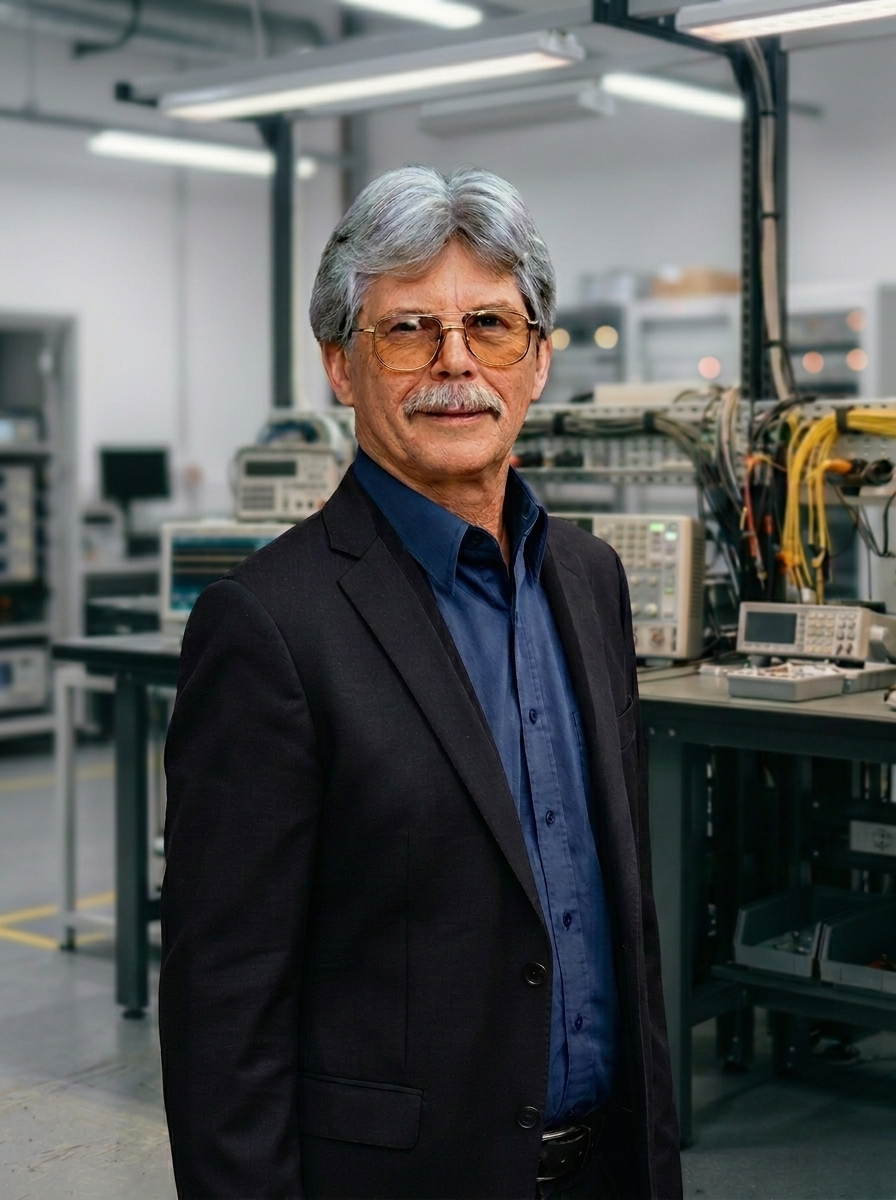
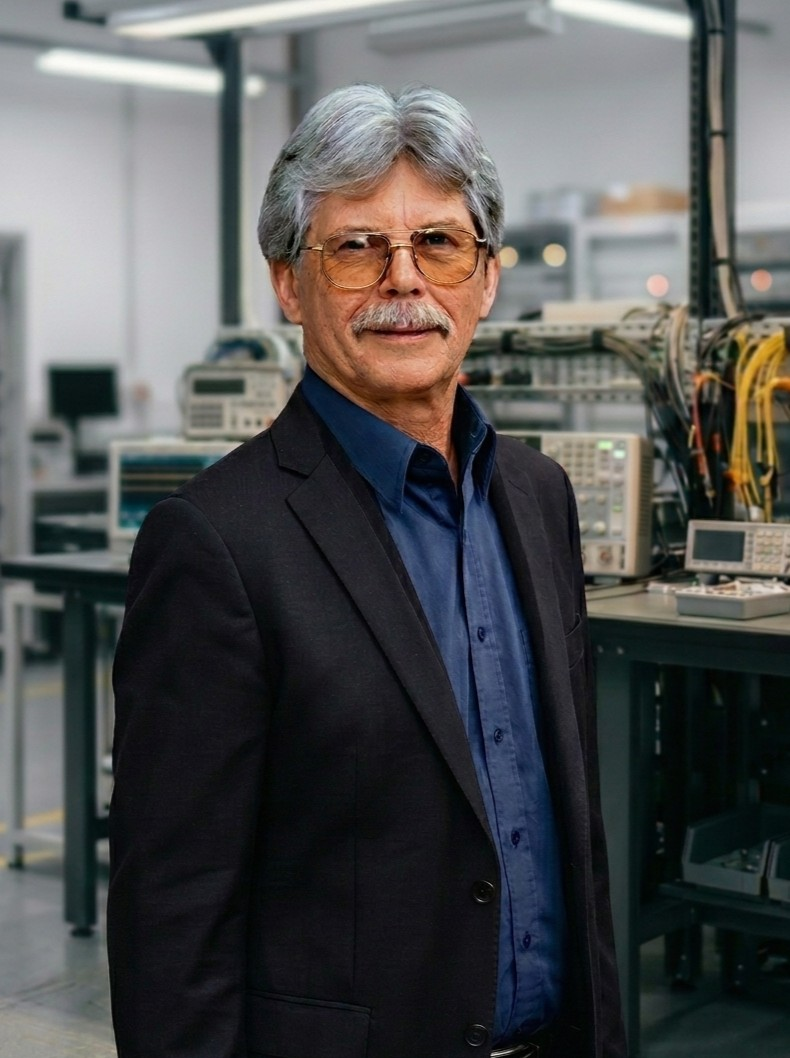
New consistently-cropped team photos; reset to uniform 5:4 framing

diff --git a/index.html b/index.html
@@ -669,7 +669,7 @@
   .team-card:hover { background: var(--navy-light); }
   .team-card:hover::before { transform: scaleX(1); }
   .team-photo {
-    width: 100%; aspect-ratio: 15 / 8; object-fit: cover; object-position: center 18%;
+    width: 100%; aspect-ratio: 5 / 4; object-fit: cover; object-position: center 18%;
     display: block; background: var(--navy-mid);
     filter: grayscale(1) contrast(1.04) brightness(0.95);
     transition: filter 0.45s var(--ease-out);
@@ -1352,7 +1352,7 @@
     <div class="team-grid stagger">
 
       <article class="team-card">
-        <img class="team-photo" src="daniel.jpeg?v=2" alt="Daniel Gutierrez, CEO and Founder of Energy+" width="800" height="427" loading="lazy" decoding="async" style="object-position: center 31%;">
+        <img class="team-photo" src="daniel.jpeg?v=3" alt="Daniel Gutierrez, CEO and Founder of Energy+" width="800" height="640" loading="lazy" decoding="async">
         <div class="team-body">
           <div class="team-name">Daniel Gutierrez</div>
           <span class="team-role">CEO + Founder</span>
@@ -1362,7 +1362,7 @@
       </article>
 
       <article class="team-card">
-        <img class="team-photo" src="cliff.jpeg?v=2" alt="Clifford Suljak, Chief Engineer" width="800" height="427" loading="lazy" decoding="async" style="object-position: center 15%;">
+        <img class="team-photo" src="cliff.jpeg?v=3" alt="Clifford Suljak, Chief Engineer" width="800" height="640" loading="lazy" decoding="async">
         <div class="team-body">
           <div class="team-name">Clifford Suljak</div>
           <span class="team-role">Chief Engineer</span>
@@ -1372,7 +1372,7 @@
       </article>
 
       <article class="team-card">
-        <img class="team-photo" src="ronson.jpeg?v=2" alt="Ronson Provido, Principal Engineering Advisor" width="800" height="427" loading="lazy" decoding="async" style="object-position: center 33%;">
+        <img class="team-photo" src="ronson.jpeg?v=3" alt="Ronson Provido, Principal Engineering Advisor" width="800" height="640" loading="lazy" decoding="async">
         <div class="team-body">
           <div class="team-name">Ronson Provido</div>
           <span class="team-role">Principal Engineering Advisor</span>
@@ -1382,7 +1382,7 @@
       </article>
 
       <article class="team-card">
-        <img class="team-photo" src="cj.jpeg?v=2" alt="CJ Metz, Strategic Account Manager" width="800" height="427" loading="lazy" decoding="async" style="object-position: center 7%;">
+        <img class="team-photo" src="cj.jpeg?v=3" alt="CJ Metz, Strategic Account Manager" width="800" height="640" loading="lazy" decoding="async">
         <div class="team-body">
           <div class="team-name">CJ Metz</div>
           <span class="team-role">Strategic Account Manager</span>